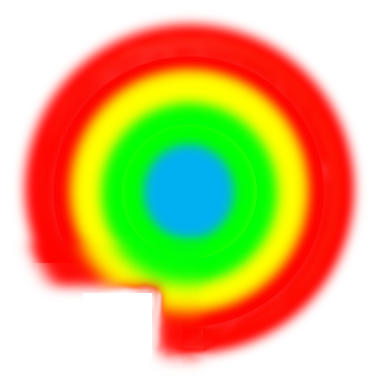
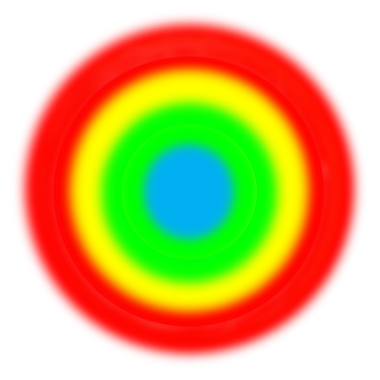
dernier push images...

Changed region(s): [[0.0579, 0.6368, 0.55, 0.9842]]

diff --git a/slide2.html b/slide2.html
@@ -64,7 +64,7 @@
 				<div class="col-sm-8" id="gauche">
 				 <img class="house" src="assets\img\housegreygood.PNG" alt="house1">
 				 <a><img id="wifi" src="assets\img\hotspot.png" alt="box"></a>
-				 <img id="aoe1" src="assets\img\aoe.png" alt="aoe">
+				 <img id="aoe1" src="assets\img\aoe_cut.png" alt="aoe">
 				 <button class="btn btn-warning" id="hotspot" href="#">hotspot</button>
 				 <img id="aoe2" src="assets\img\aoe.png" alt="aoe">
 				 <button class="btn btn-warning" id="hotspot2" href="#">hotspot2</button>
